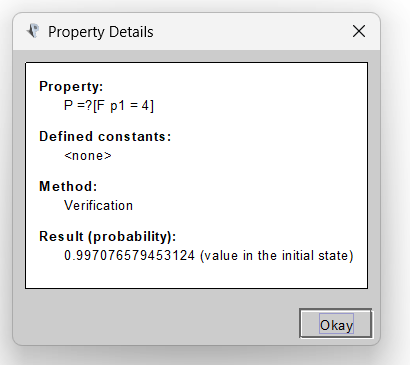
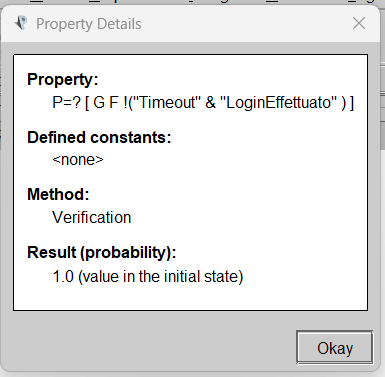
Fix immagini e relazione sulle simulazioni e proprietà

Changed region(s): [[0.0, 0.0, 1.0, 0.9945], [0.3429, 0.9342, 0.6234, 0.9644], [0.0, 0.9644, 0.0312, 0.9945]]

diff --git a/Latex/chapter3/chapter3.tex b/Latex/chapter3/chapter3.tex
@@ -646,153 +646,121 @@ Di seguito è riportato il codice PRISM utilizzato per il modello dell'attaccant
 
 Sfruttando il simulatore di PRISM, sono state eseguite delle simulazioni per analizzare il comportamento del sistema in diversi scenari. Di seguito sono riportate alcune simulazioni:
 
-\subsubsection{Simulazione login corretto}
+\subsubsection{Simulazione attacco login con successo}
 
 \begin{figure}[ht!]
 	\centering
-	\includegraphics[width=1\columnwidth]{chapter3/immagini/Simulazione_login_corretto.png}
-    \caption{Utente che effettua il login correttamente.}
+	\includegraphics[width=0.9\columnwidth]{chapter3/immagini/Simulazione_attacco_login_con_successo.png}
+    \caption{Utente che riesce ad attaccare la funzione di login con successo, ottenendo l'accesso ad un account.}
 \end{figure}
 
-La figura 3.1 mostra la simulazione del login da parte di un utente che inserisce correttamente le proprie credenziali e il codice MFA. Si può notare che si arriva in una situazione di deadlock dopo aver effettuato il login con successo, ciò equivale a rimanere indefinitamente nello stato 4.
+La figura 3.1 mostra la simulazione di un utente che effettua un attacco di forza bruta con dizionario sulla funzione di login. Esso riesce a indovinare correttamente sia le credenziali di accesso (email e password) sia il codice MFA, ottenendo così l'accesso ad un account.
 
 \FloatBarrier
 
 \clearpage
 
-\subsubsection{Simulazione login errato}
+\subsubsection{Simulazione attacco login fallito per timeout}
 
 \begin{figure}[ht!]
 	\centering
-	\includegraphics[width=0.9\columnwidth]{chapter3/immagini/Simulazione_credenziali_sbagliate.png}
-    \caption{Timeout login con credenziali sbagliate 5 volte.}
+	\includegraphics[width=0.9\columnwidth]{chapter3/immagini/Simulazione_attacco_login_fallito.png}
+    \caption{Utente che non riesce ad attaccare la funzione di login perché viene bloccato dopo un certo numero di tentativi.}
 \end{figure}
 
-La figura 3.2 mostra la simulazione del login da parte di un utente che inserisce credenziali errate per 5 volte consecutive, raggiungendo così lo stato di timeout.
+La figura 3.2 mostra la simulazione dell'attacco della funzione di login da parte di un utente che inserisce credenziali errate per 5 volte consecutive, arrivando ad attivare il timeout del login.
 
 \FloatBarrier
 
-\subsubsection{Simulazione recupero password corretto}
+\subsubsection{Simulazione inserimento MFA errato}
 
 \begin{figure}[ht!]
 	\centering
-	\includegraphics[width=0.9\columnwidth]{chapter3/immagini/Simulazione_recupero_password_corretto.png}
-    \caption{Utente che effettua il recupero della propria password correttamente.}
+	\includegraphics[width=0.9\columnwidth]{chapter3/immagini/Simulazione_MFA_errato_1.png}
+    \caption{Utente che inserisce correttamente le credenziali, ma sbaglia il codice MFA troppe volte.}
 \end{figure}
 
-La figura 3.3 mostra la simulazione del recupero della password da parte di un utente che inserisce correttamente l'email, il codice di recupero e la nuova password. Alla fine del processo di recupero, l'utente torna allo stato iniziale per effettuare nuovamente il login.
+\begin{figure}[ht!]
+	\centering
+	\includegraphics[width=0.9\columnwidth]{chapter3/immagini/Simulazione_MFA_errato_2.png}
+    \caption{Utente che inserisce correttamente le credenziali, ma sbaglia il codice MFA troppe volte.}
+\end{figure}
+
+Le figure 3.3 e 3.4 mostrano la simulazione di un utente che inserisce correttamente le credenziali, ma sbaglia il codice MFA per troppe volte consecutive, raggiungendo così lo stato di timeout. Questo scenario evidenzia l'importanza dei sistemi di autenticazione a più fattori, i quali diminuiscono la probabilità di successo di un attacco di forza bruta.
 
 \FloatBarrier
 
-\subsubsection{Simulazione MFA errato}
+\subsubsection{Simulazione attacco effettuato con successo sulla funzione di recupero password ed accesso all'account}
 
 \begin{figure}[ht!]
 	\centering
-	\includegraphics[width=0.9\columnwidth]{chapter3/immagini/Simulazione_sbaglio_codice_MFA.png}
-    \caption{Utente che inserisce correttamente le credenziali, ma sbaglia il codice MFA.}
+	\includegraphics[width=0.9\columnwidth]{chapter3/immagini/Simulazione_recupero_password_e_login.png}
+    \caption{Utente che attacca con successo la funzione di recupero password ed accede all'account appena compromesso.}
 \end{figure}
 
-La figura 3.4 mostra la simulazione di un utente che inserisce correttamente le credenziali, ma sbaglia il codice MFA per 5 volte consecutive, raggiungendo così lo stato di timeout. Questo scenario evidenzia l'importanza dei sistemi di autenticazione a più fattori.
+La figura 3.5 mostra la simulazione di un utente che attacca con successo la funzione di recupero password, indovinando l'email ed il codice di recupero password. Successivamente, l'utente riesce ad accedere all'account appena compromesso inserendo l'email, la password appena cambiata ed indovinando il codice MFA. Questo scenario è molto improbabile, ma evidenzia come un attaccante determinato possa riuscire a compromettere un account anche in presenza di meccanismi di sicurezza avanzati.
 
 \FloatBarrier
 
-\subsubsection{Simulazione codice recupero password errato}
+\subsubsection{Simulazione inserimento codice di recupero password errato}
 
 \begin{figure}[ht!]
 	\centering
-	\includegraphics[width=0.9\columnwidth]{chapter3/immagini/Simulazione_codice_recupero_password_sbagliato.png}
-    \caption{Utente che inserisce correttamente l'email, ma sbaglia il codice di recupero password.}
+	\includegraphics[width=0.9\columnwidth]{chapter3/immagini/Simulazione_codice_recupero_password_errato1.png}
+    \caption{Utente che inserisce il codice di recupero password errato troppe volte, andando a finire nello stato di timeout.}
 \end{figure}
 
-La figura 3.5 mostra la simulazione di un utente che inserisce correttamente l'email per il recupero della password, ma sbaglia il codice di recupero per 5 volte consecutive, raggiungendo così lo stato di timeout.
+\begin{figure}[ht!]
+	\centering
+	\includegraphics[width=0.9\columnwidth]{chapter3/immagini/Simulazione_codice_recupero_password_errato2.png}
+    \caption{Utente che inserisce il codice di recupero password errato troppe volte, andando a finire nello stato di timeout.}
+\end{figure}
 
 \FloatBarrier
 
-\subsubsection{Simulazione recupero password e login corretto}
-
-\begin{figure}[ht!]
-	\centering
-	\includegraphics[width=1\columnwidth]{chapter3/immagini/Simulazione_recupero_password_e_login_corretto.png}
-    \caption{Utente effettua la procedura di recupero password e poi effettua il login correttamente.}
-\end{figure}
-
-La figura 3.6 mostra la simulazione di un utente che effettua la procedura di recupero della password in modo corretto e, successivamente, effettua il login con successo usando la nuova password appena cambiata.
+Le figure 3.6 e 3.7 mostrano la simulazione di un utente che effettua la procedura di recupero della password indovinando un'email valida, ma sbagliando il codice di recupero password per troppe volte consecutive, raggiungendo così lo stato di timeout.
 
 \clearpage
 
-%%%%%%%%%%%%%%%%%%%%%% SIMULAZIONE ATTACCANTE %%%%%%%%%%%%%%%%%%%%%%
-\subsubsection{Simulazione attacco forza bruta su funzione di login con dizionario effettuato senza successo}
-
-\begin{figure}[ht!]
-	\centering
-	\includegraphics[width=1\columnwidth]{chapter3/immagini/Simulazione_attacco_login_pt1.png}
-    \caption{Attaccante che prova delle combinazioni email e password per attaccare il sistema di login.}
-\end{figure}
-
-\begin{figure}[ht!]
-	\centering
-	\includegraphics[width=1\columnwidth]{chapter3/immagini/Simulazione_attacco_login_pt2.png}
-    \caption{Attaccante che prova delle combinazioni email e password per attaccare il sistema di login.}
-\end{figure}
-
-Le figure 3.7 e 3.8 mostrano la simulazione di un attaccante che tenta di compromettere un account utilizzando un attacco di forza bruta con dizionario. L'attaccante prova diverse combinazioni di email e password, ma alla fine non riesce ad effettuare il login con successo. Per semplicità, si suppone che il dizionario sia composto da 10 email e 10 password; sicuramente un dizionario più ampio o l'uso di tecniche più sofisticate aumenterebbero le probabilità di successo dell'attacco.
-
-\clearpage
-
-\subsubsection{Simulazione attacco forza bruta su funzione di recupero password con dizionario effettuato senza successo}
-
-\begin{figure}[ht!]
-	\centering
-	\includegraphics[width=1\columnwidth]{chapter3/immagini/Simulazione_attacco_recupero_password_pt1.png}
-    \caption{Attaccante che prova delle email e codici di recupero email per attaccare il sistema di login.}
-\end{figure}
-
-\begin{figure}[ht!]
-	\centering
-	\includegraphics[width=1\columnwidth]{chapter3/immagini/Simulazione_attacco_recupero_password_pt2.png}
-    \caption{Attaccante che prova delle email e codici di recupero email per attaccare il sistema di login.}
-\end{figure}
-
-Le figure 3.9 e 3.10 mostrano la simulazione di un attaccante che tenta di compromettere un account utente effettuando un attacco di forza bruta con dizionario. L'attaccante prova diverse combinazioni di email e codici di recupero password, ma alla fine non riesce ad effettuare il login con successo. Per semplicità, si suppone che il dizionario sia composto da 10 email e il codice di recupero password sia a 6 cifre; anche in questo caso un dizionario più ampio o l'uso di tecniche più sofisticate aumenterebbero le probabilità di successo dell'attacco.
-
-\clearpage
-
-\subsubsection{Simulazione attacco forza bruta su funzione di login con dizionario effettuato con successo}
-
-\begin{figure}[ht!]
-	\centering
-	\includegraphics[width=1\columnwidth]{chapter3/immagini/Simulazione_attacco_login_con_successo.png}
-    \caption{Attaccante che prova delle combinazioni email, password e codice MFA, riuscendo ad accedere ad un account.}
-\end{figure}
-
-La figura 3.11 mostra la simulazione di un attaccante che riesce a compromettere un account utilizzando un attacco di forza bruta con dizionario. Questo scenario è molto improbabile, ma possibile, soprattutto se l'attaccante dispone di un dizionario molto ampio o utilizza tecniche più sofisticate. In questo caso, l'attaccante riesce a indovinare correttamente l'email, la password e il codice MFA, ottenendo così l'accesso ad un account.
-
-\clearpage
+%%%%%%%%% SAFETY %%%%%%%%%%%%%%
 
 \subsection{Verifica di una proprietà di Safety}
 
 La proprietà di \textit{Safety} rappresenta il concetto che "qualcosa di brutto non accada mai" durante l'esecuzione di un sistema. In altre parole, una proprietà di Safety garantisce che il sistema non raggiunga mai uno stato indesiderato o pericoloso. Nel contesto della funzione di login modellata tramite la catena di Markov, una proprietà di Safety potrebbe essere formulata come segue: "Un utente non deve mai superare il numero massimo di tentativi di login errati senza essere bloccato". Questa proprietà può essere rappresentata in PRISM tramite la seguente stringa: 
 \begin{verbatim}
-    P=? [ F ((c_log=5|c_mfa=5|c_email=5|c_rpass=5)&p1!=11) ]
+    P=? [ G !( "Timeout" & "AttaccoRiuscito" ) ]
 \end{verbatim}
 
-Ci chiediamo qual'è la probabilità di raggiungere uno stato in cui uno dei contatori ($C_{LOG}$, $C_{MFA}$, $C_{EMAIL}$, $C_{RPASS}$) è uguale a 5 (cioè il numero massimo di tentativi errati) e lo stato corrente (p1) non è lo stato di timeout (stato 11)? In altre parole, questa proprietà garantisce che il sistema bloccherà l'utente dopo un certo numero di tentativi errati, prevenendo così accessi non autorizzati.
+oppure anche con la seguente stringa:
+
+\begin{verbatim}
+    P=? [ F ( "AttaccoRiuscito" ) ] 
+\end{verbatim}
+
+Usando la funzione \textit{Verify} di PRISM, è stato possibile verificare la prima proprietà. Nella prima stringa ci chiediamo qual'è la probabilità che non valga mai il fatto che la funzione di login sia nello stato di timeout (denotato appunto dall'etichetta "Timeout", la quale è un alias per lo stato 20) e l'attaccante sia riuscito ad effettuare l'attacco con successo (denotato dall'etichetta "AttaccoRiuscito", alias per lo stato 24). In altre parole, questa proprietà garantisce che il sistema bloccherà l'utente dopo un certo numero di tentativi errati, prevenendo così accessi non autorizzati. Come si può osservare dalla figura 3.8, la probabilità è quasi 1, il che significa che è praticamente certo che l'utente verrà bloccato prima di riuscire ad accedere con successo.
 
 \begin{figure}[ht!]
 	\centering
-	\includegraphics[width=0.5\columnwidth]{chapter3/immagini/safety.png}
+	\includegraphics[width=0.5\columnwidth]{chapter3/immagini/safety1.png}
+    \caption{Verifica della proprietà di Safety tramite PRISM.}
+\end{figure}
+
+Nella seconda stringa, ci chiediamo qual'è la probabilità che prima o poi si raggiunge lo stato in cui l'attaccante è riuscito ad effettuare l'attacco con successo. Vediamo nella figura 3.9 che questa probabilità è praticamente 0, il che significa che è praticamente impossibile che l'attaccante riesca ad accedere al sistema senza essere bloccato.
+
+\begin{figure}[ht!]
+	\centering
+	\includegraphics[width=0.5\columnwidth]{chapter3/immagini/safety2.png}
     \caption{Verifica della proprietà di Safety tramite PRISM.}
 \end{figure}
 
 \FloatBarrier
 
-Usando la funzione \textit{Verify} di PRISM, è stato possibile verificare questa proprietà di Safety sul modello della funzione di login. La verifica ha confermato che la proprietà è soddisfatta, infatti figura 3.7 mostra che la probabilità di raggiungere uno stato in cui uno dei contatori è uguale a 5 e lo stato corrente non è lo stato di timeout è praticamente pari a 0. Ciò significa che il sistema bloccherà sempre l'utente dopo un certo numero di tentativi errati, garantendo così la sicurezza del processo di autenticazione.
-
+%%%%%%%%% RESPONSE %%%%%%%%%%%%%%
 \subsection{Verifica di una proprietà di response}
 
 La proprietà di \textit{Response} rappresenta il concetto che "se qualcosa di buono accade, allora qualcosa di buono deve accadere sempre". In altre parole, una proprietà di response garantisce che se un evento desiderato si verifica, allora un altro evento desiderato deve seguire. Si è deciso di modellare la "un utente con le credenziali corrette deve riuscire ad accedere al sistema infinitamente spesso". Questa proprietà può essere rappresentata in PRISM tramite la seguente stringa: 
 \begin{verbatim}
-    P=? [ F p1=4 ]
+    P=? [ G F !("Timeout" & "LoginEffettuato" ) ]
 \end{verbatim}
 
 \begin{figure}[ht!]
@@ -803,4 +771,4 @@ La proprietà di \textit{Response} rappresenta il concetto che "se qualcosa di b
 
 \FloatBarrier
 
-Anche questa proprietà è stata verificata utilizzando la funzione \textit{Verify} di PRISM sul modello della funzione di login. La verifica ha confermato che la proprietà è soddisfatta, infatti figura 3.8 mostra che la probabilità di raggiungere lo stato 4 (login effettuato con successo) è praticamente pari a 1. Ciò significa che un utente con le credenziali corrette riuscirà sempre ad accedere al sistema, garantendo così l'accessibilità del processo di autenticazione.
+Anche questa proprietà è stata verificata utilizzando la funzione \textit{Verify} di PRISM. La verifica ha confermato che la proprietà è soddisfatta, infatti figura 3.8 mostra che la probabilità che non valga infinitamente spesso il fatto di essere nello stato di timeout e contemporaneamente di aver effettuato il login con successo. Ciò significa che un utente con le credenziali corrette riuscirà sempre ad accedere al sistema, garantendo così l'accessibilità del processo di autenticazione.
